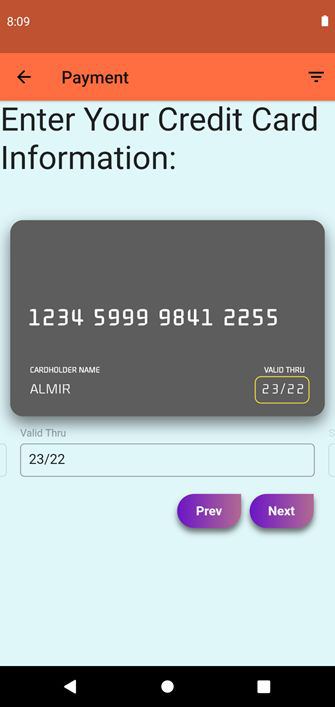
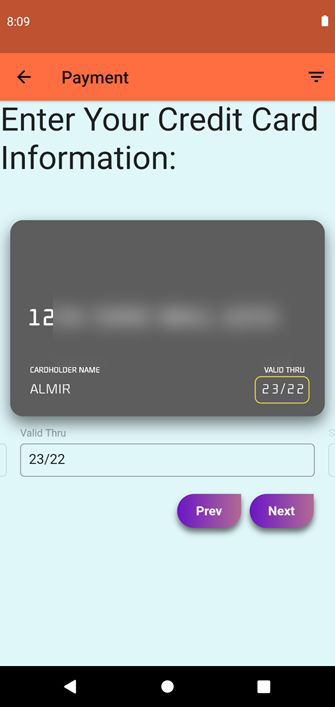
Add files via upload

Changed region(s): [[0.1493, 0.4356, 0.6269, 0.4668], [0.6567, 0.4356, 0.8358, 0.4668]]

diff --git a/index.html b/index.html
@@ -219,7 +219,7 @@
 
 <div class="case-block"><small>07 — PRODUCT DECISION</small><div class="decision"><div><b>DATABASE SCOPE</b><h3>The team changed the original two-database plan because of project cost constraints.</h3></div><p>The original plan called for separate insurance-company and DMV databases. Because creating a second Firebase database would have introduced additional expense, the team combined the information into one database.</p></div></div>
 
-<div class="case-block"><small>08 — DEVELOPMENT PROCESS</small><div class="two"><h3>RAD + Scrum for a short delivery window.</h3><div class="copy"><p>The team used Rapid Application Development alongside Agile Scrum because the project had a short completion window and required adaptation as development progressed. Work was organized into sprints with weekly meetings to track progress.</p></div></div><img class="visual" src="assets/auto/burndown.png" alt="Auto insurance burndown chart"><p class="caption">Project burndown chart from the technical report.</p></div>
+<div class="case-block"><small>08 — DEVELOPMENT PROCESS</small><div class="two"><h3>RAD + Scrum for a short delivery window.</h3><div class="copy"><p>The team used Rapid Application Development alongside Agile Scrum because the project had a short completion window and required adaptation as development progressed. Work was organized into sprints with weekly meetings to track progress.</p></div></div><figure class="visual-card process-visual"><img src="assets/auto/burndown.png" alt="Auto insurance burndown chart"><figcaption>Project burndown chart from the technical report.</figcaption></figure></div>
 
 <div class="case-block"><small>09 — TESTING & LIMITATIONS</small><div class="two"><h3>Testing focused on core functions and data behavior.</h3><div class="copy"><p>The team tested functions, features, buttons, screens, database uploads/downloads, PDF generation, integration behavior, and major application functionality through functional, unit, integration, and smoke testing.</p><p>Key limitations included time, the learning curve for Firebase/Xcode and PDF generation, and the cost constraint that led to combining the databases.</p></div></div></div>
 
@@ -242,9 +242,9 @@
 
 <div class="case-block"><small>06 — SYSTEM DESIGN</small><h3>From organization needs to technical architecture.</h3><p class="muted">The report documented context, use-case, data-flow, database, and entity-relationship diagrams before implementation.</p><figure class="visual-card diagram"><img src="assets/connect/context.png" alt="Connect NYC context diagram"><figcaption>Context diagram showing the users, app development team, and database managers.</figcaption></figure><figure class="visual-card diagram"><img src="assets/connect/use-case.png" alt="Connect NYC use case diagram"><figcaption>Use-case diagram mapping student and admin interactions across groups, events, messaging, and food ordering.</figcaption></figure><figure class="visual-card diagram"><img src="assets/connect/main-dfd.png" alt="Connect NYC main data flow diagram"><figcaption>Main data-flow diagram showing how information moves through the application.</figcaption></figure><figure class="visual-card diagram"><img src="assets/connect/erd.png" alt="Connect NYC entity relationship diagram"><figcaption>Entity relationship diagram supporting the database design.</figcaption></figure></div>
 
-<div class="case-block"><small>07 — PRODUCT INTERFACE</small><h3>Designing the experience across multiple community features.</h3><div class="interface-group"><div class="group-heading"><span>INITIAL MOCKUPS</span><p>Light-blue screens representing the initial design direction.</p></div><div class="screen-grid connect-screen-grid"><img src="assets/connect/login.png" alt="Connect NYC initial login mockup"><img src="assets/connect/profile.png" alt="Connect NYC initial profile mockup"><img src="assets/connect/register.png" alt="Connect NYC initial registration mockup"><img src="assets/connect/verification.png" alt="Connect NYC initial email verification mockup"><img src="assets/connect/profile-create.png" alt="Connect NYC initial profile creation mockup"><img src="assets/connect/settings.png" alt="Connect NYC initial profile settings mockup"></div></div><div class="interface-group final-interface"><div class="group-heading"><span>IMPLEMENTED APP</span><p>Dark-blue screens representing the implemented experience.</p></div><div class="screen-grid connect-screen-grid"><img src="assets/connect/restaurants.png" alt="Connect NYC implemented nearby restaurants"><img src="assets/connect/restaurant.png" alt="Connect NYC implemented restaurant screen"><img src="assets/connect/events.png" alt="Connect NYC implemented events screen"><img src="assets/connect/groups.png" alt="Connect NYC implemented groups screen"><img src="assets/connect/messenger.png" alt="Connect NYC implemented messenger screen"></div></div></div>
+<div class="case-block"><small>07 — PRODUCT INTERFACE</small><h3>Designing the experience across multiple community features.</h3><p class="intro-copy">The interface evolved from early concepts into a working cross-platform experience spanning profiles, groups, events, food delivery, and messaging.</p><div class="screen-grid connect-screen-grid"><img src="assets/connect/login.png" alt="Connect NYC login screen"><img src="assets/connect/profile.png" alt="Connect NYC profile screen"><img src="assets/connect/register.png" alt="Connect NYC registration screen"><img src="assets/connect/verification.png" alt="Connect NYC email verification screen"><img src="assets/connect/profile-create.png" alt="Connect NYC profile creation screen"><img src="assets/connect/settings.png" alt="Connect NYC profile settings screen"><img src="assets/connect/restaurants.png" alt="Connect NYC restaurant list screen"><img src="assets/connect/restaurant.png" alt="Connect NYC restaurant detail screen"><img src="assets/connect/events.png" alt="Connect NYC events screen"><img src="assets/connect/groups.png" alt="Connect NYC groups screen"><img src="assets/connect/messenger.png" alt="Connect NYC messaging screen"></div></div>
 
-<div class="case-block"><small>08 — DEVELOPMENT PROCESS</small><div class="two"><h3>Incremental development with Scrum practices and Jira.</h3><div class="copy"><p>The team used an incremental software development process to allow changes throughout the development cycle. Weekly JAD sessions were used to discuss tasks and progress, while Jira was used to organize issues and break work into sprints.</p></div></div><img class="visual" src="assets/connect/burndown.png" alt="Connect NYC burndown chart"><p class="caption">Burndown chart used to track project progress.</p></div>
+<div class="case-block"><small>08 — DEVELOPMENT PROCESS</small><div class="two"><h3>Incremental development with Scrum practices and Jira.</h3><div class="copy"><p>The team used an incremental software development process to allow changes throughout the development cycle. Weekly JAD sessions were used to discuss tasks and progress, while Jira was used to organize issues and break work into sprints.</p></div></div><figure class="visual-card process-visual"><img src="assets/connect/burndown.png" alt="Connect NYC burndown chart"><figcaption>Burndown chart used to track project progress.</figcaption></figure></div>
 
 <div class="case-block"><small>09 — TOOLS & IMPLEMENTATION</small><div class="features"><div><b>Flutter</b><p>Cross-platform UI and application framework using Dart.</p></div><div><b>Firebase</b><p>User authentication and real-time database functionality.</p></div><div><b>Jira</b><p>Issues, stories, tasks, and sprint organization.</p></div><div><b>Proto.io</b><p>Initial UI/UX design and prototyping.</p></div></div></div>
 

diff --git a/style.css b/style.css
@@ -25,3 +25,11 @@ header{position:sticky;top:0;z-index:5;display:flex;justify-content:space-betwee
 @media(max-width:1050px){.auto-screen-grid,.connect-screen-grid{grid-template-columns:repeat(3,1fr)}}
 @media(max-width:850px){.project-secondary{margin-top:15px}.auto-screen-grid,.connect-screen-grid{grid-template-columns:repeat(3,1fr)}}
 @media(max-width:560px){.auto-screen-grid,.connect-screen-grid{grid-template-columns:repeat(2,1fr)}.auto-screen-grid img,.connect-screen-grid img{height:300px}}
+
+/* Final portfolio polish: keep all three case studies on one cohesive visual system. */
+.project{min-height:430px;align-items:stretch}.project img{height:430px;min-height:430px;object-fit:contain}.project-secondary{margin-top:15px}
+.project-secondary img{height:430px;min-height:430px}
+.features{display:grid;grid-template-columns:repeat(2,minmax(0,1fr));gap:14px;margin-top:35px}.features>div{background:#fff;border:1px solid var(--line);border-radius:20px;padding:26px}.features>div>b{display:inline-block;font-size:11px;letter-spacing:.12em;color:var(--accent);font-weight:700}.features h3{font-size:26px;margin:12px 0 8px}.features p{color:var(--muted);margin:0}.decision{display:grid;grid-template-columns:1fr 1fr;gap:0;margin-top:35px;border-radius:24px;overflow:hidden;background:var(--ink);color:#fff}.decision>div{padding:34px}.decision>div>b{font-size:10px;letter-spacing:.14em;color:#bdb6ff}.decision h3{font-size:30px;margin:12px 0 0}.decision>p{margin:0;padding:34px;color:#d0d0d0;display:flex;align-items:center;border-left:1px solid #333}.process-visual{margin-top:35px}.process-visual img{max-height:420px}.screen-grid{align-items:stretch}.screen-grid img{height:360px!important;min-height:360px;object-fit:contain}.auto-screen-grid img,.connect-screen-grid img{height:360px!important;min-height:360px;object-fit:contain}.connect-screen-grid{grid-template-columns:repeat(6,minmax(0,1fr));gap:16px}.case-block .visual-card.diagram{display:block;clear:both;width:100%;overflow:hidden}.case-block .visual-card.diagram + .visual-card.diagram{margin-top:28px}.visual-card.diagram img{width:100%;height:auto;max-height:620px;object-fit:contain}.visual-card.diagram figcaption{padding-top:4px}.intro-copy{max-width:820px}.case-tags{margin-top:26px}.case-head{padding-bottom:82px}
+@media(max-width:1050px){.connect-screen-grid{grid-template-columns:repeat(4,minmax(0,1fr))}.auto-screen-grid{grid-template-columns:repeat(3,minmax(0,1fr))}}
+@media(max-width:850px){.features,.decision{grid-template-columns:1fr}.decision>p{border-left:0;border-top:1px solid #333}.project,.project-secondary{grid-template-columns:1fr}.project img,.project-secondary img{height:360px;min-height:360px}.connect-screen-grid,.auto-screen-grid{grid-template-columns:repeat(3,minmax(0,1fr))}}
+@media(max-width:560px){.features{grid-template-columns:1fr}.connect-screen-grid,.auto-screen-grid{grid-template-columns:repeat(2,minmax(0,1fr))}.screen-grid img,.auto-screen-grid img,.connect-screen-grid img{height:300px!important;min-height:300px}}
